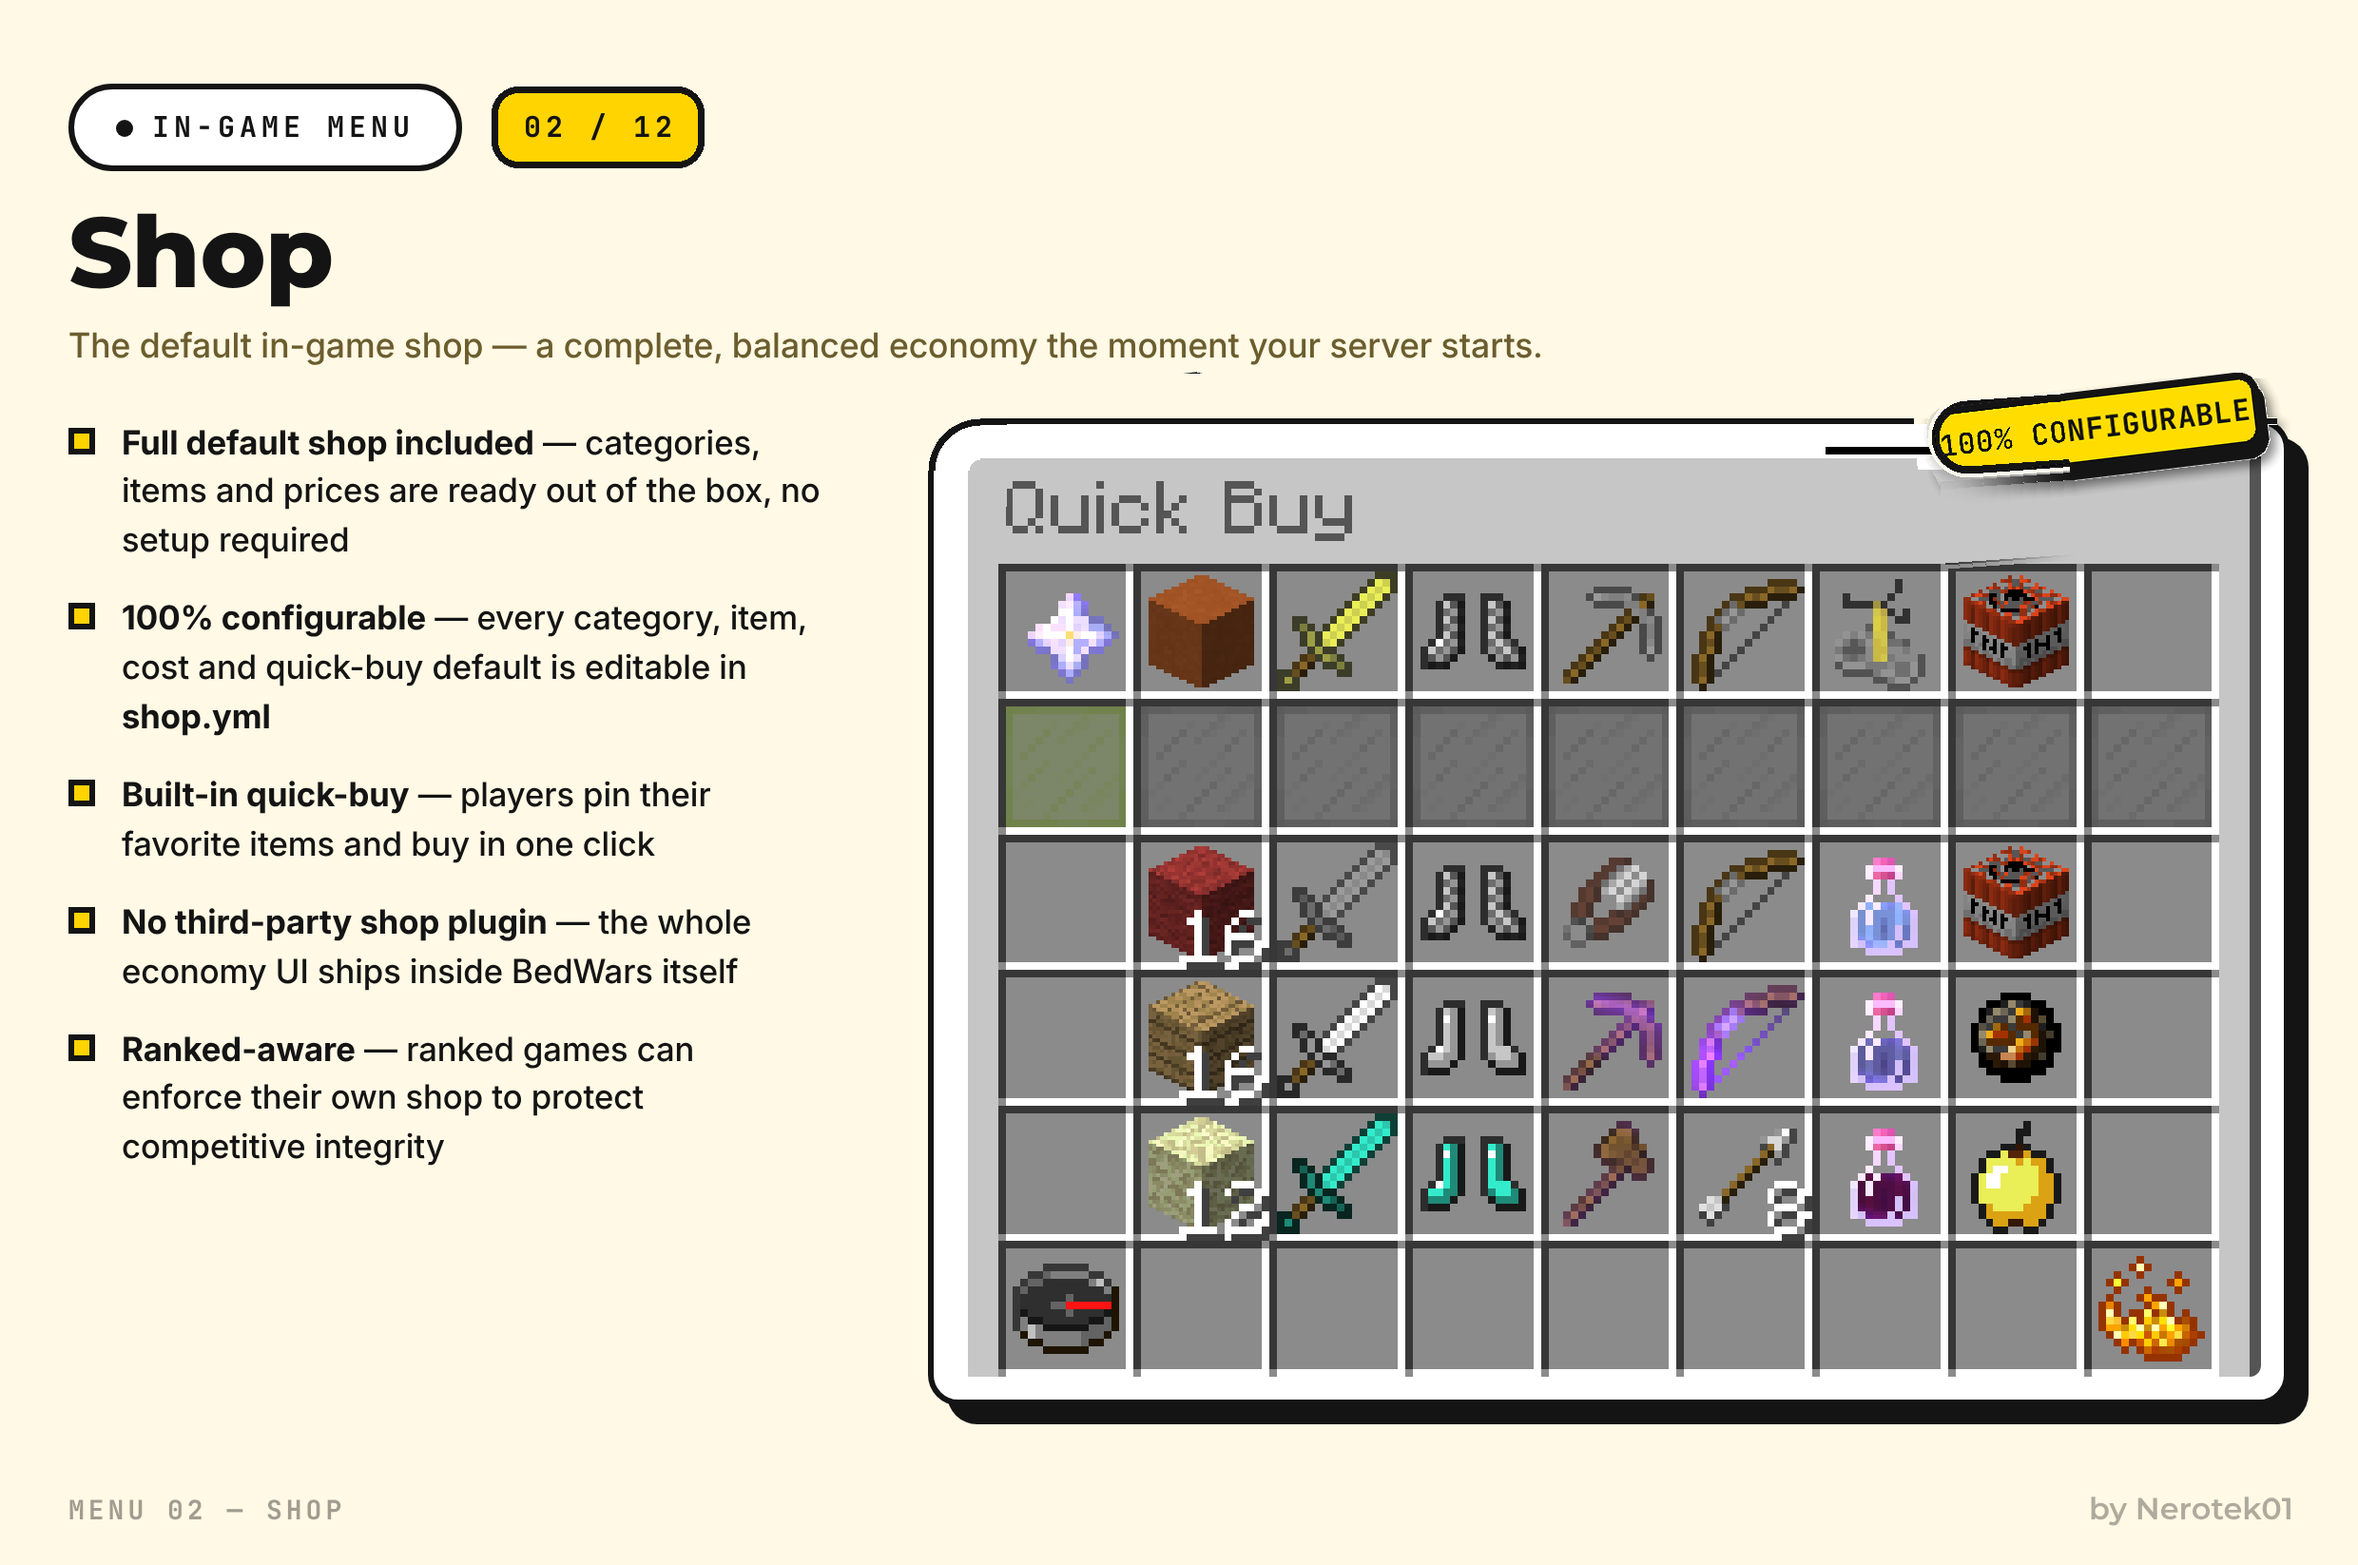
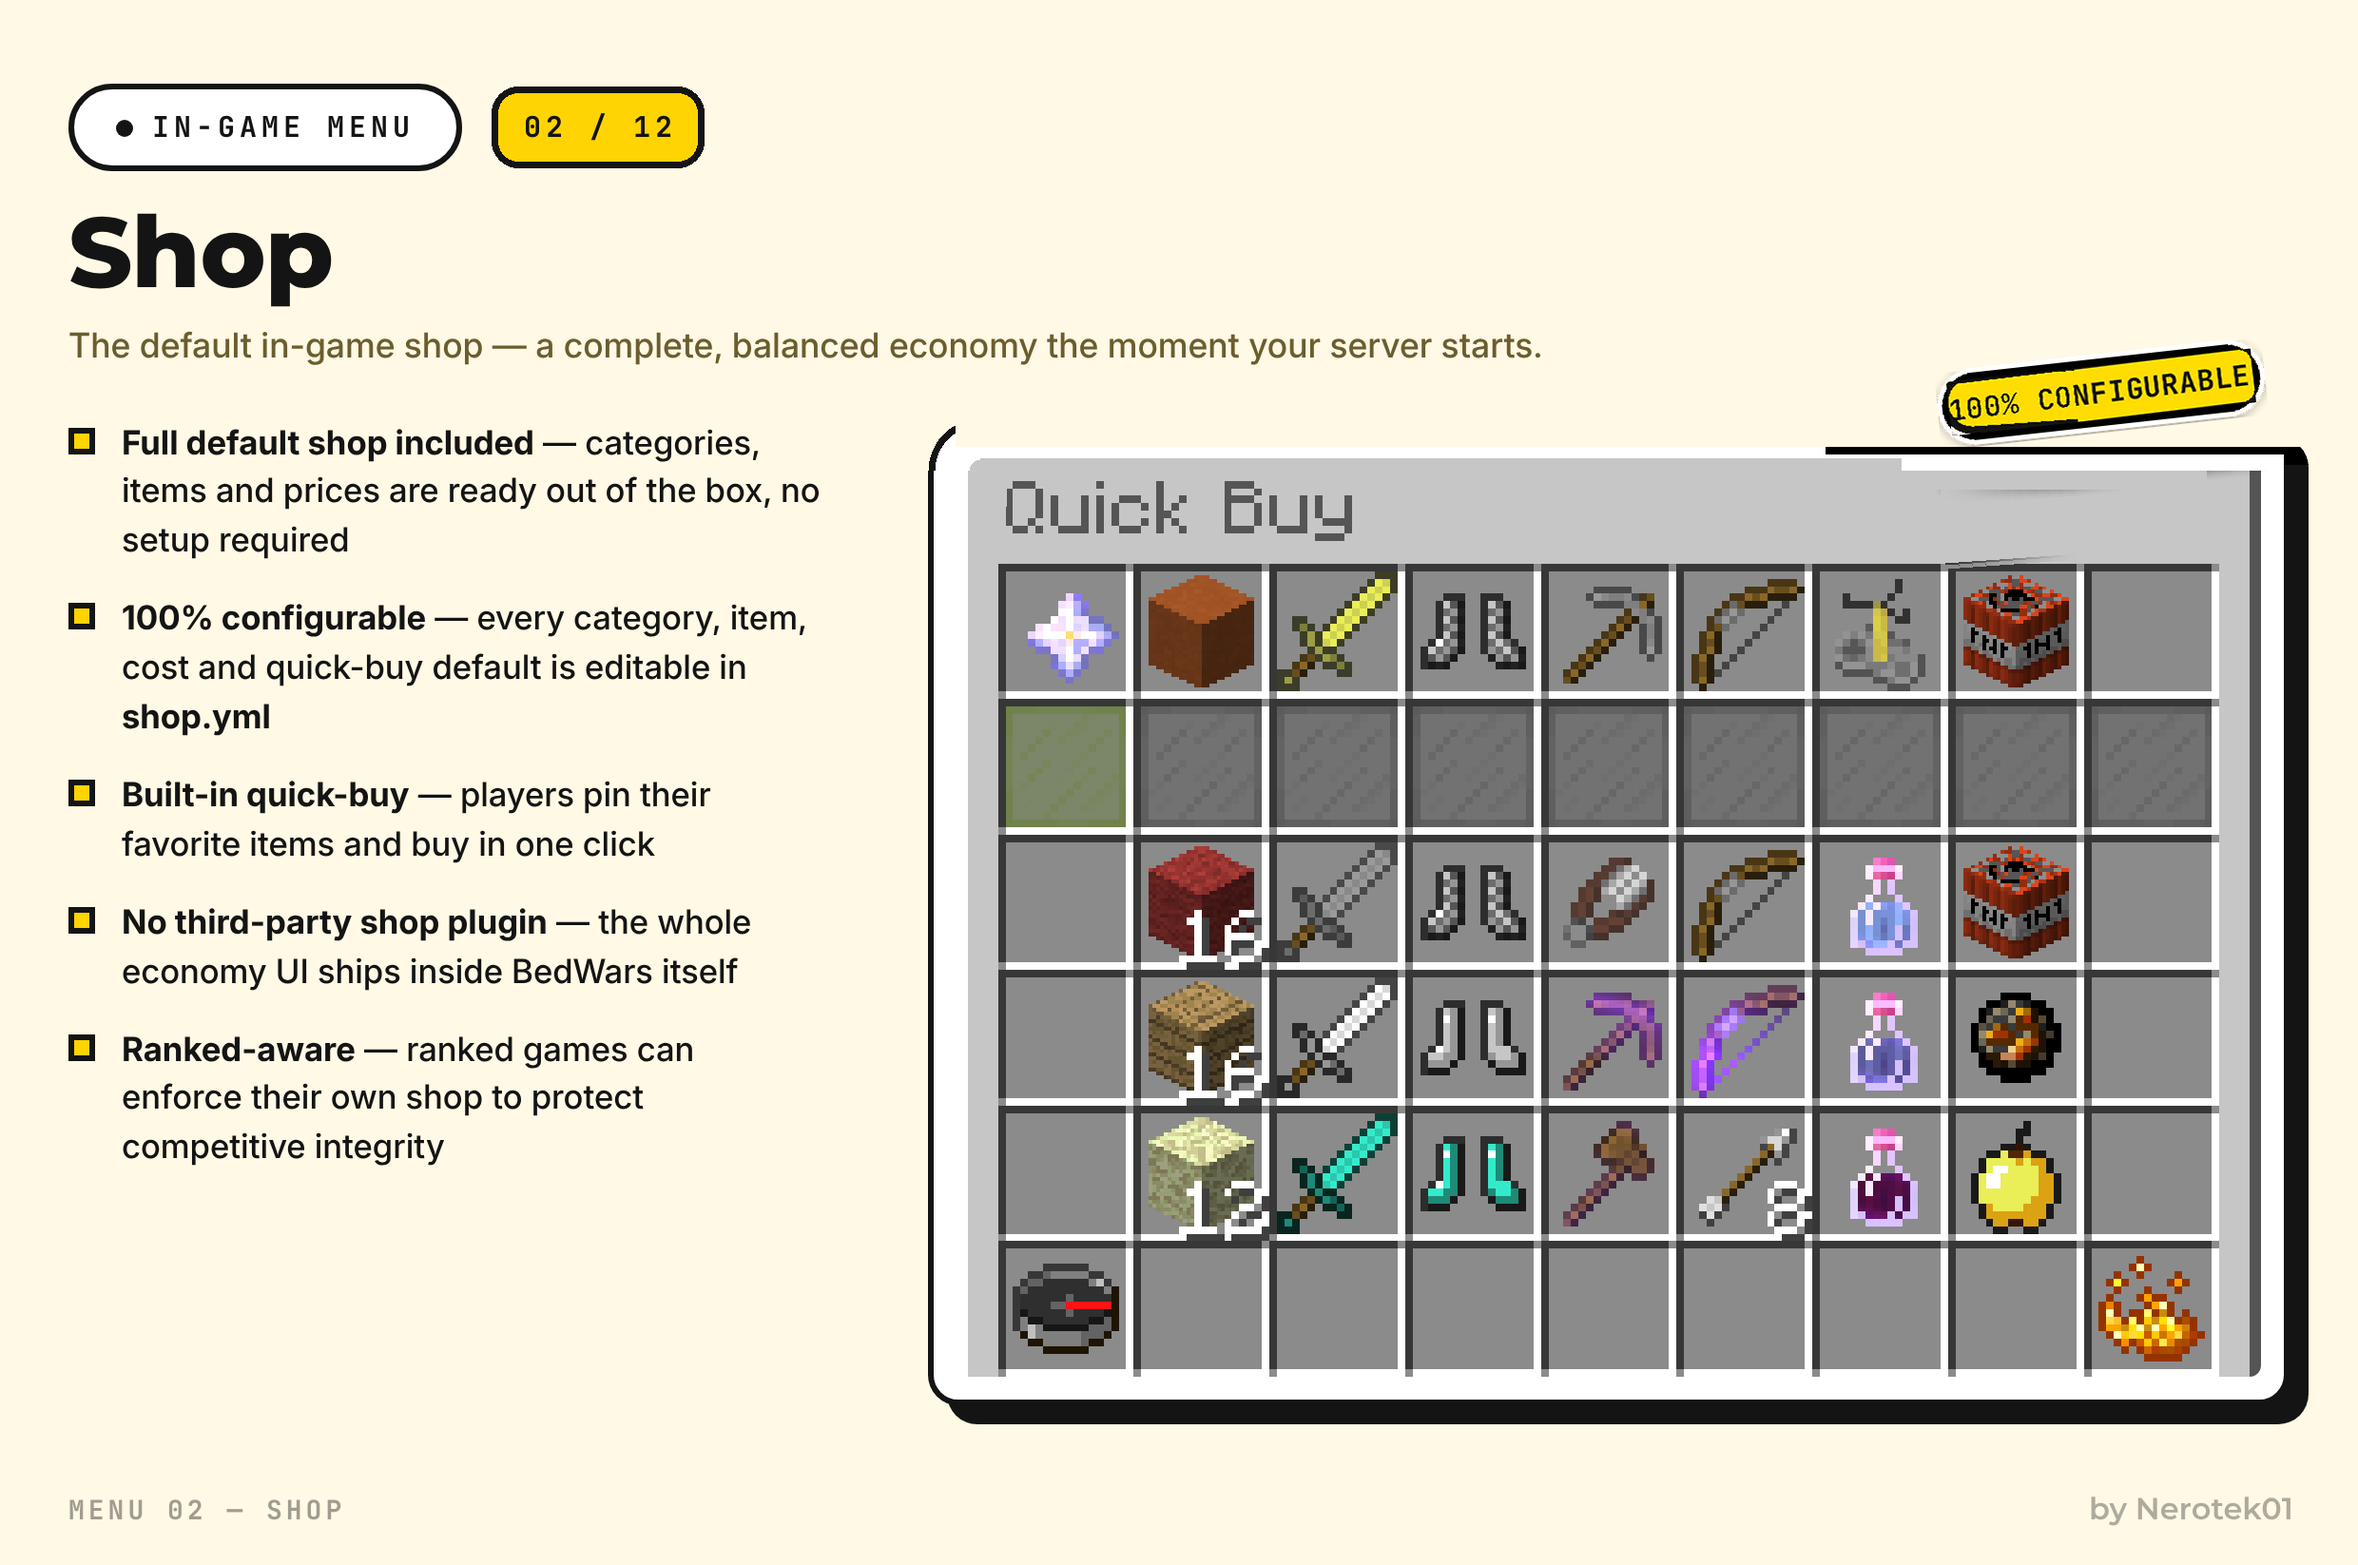
fix: clean up README asset defects across all menu cards
- remove leftover ghost line above the panel border + unstick the
  100% CONFIGURABLE sticker from the panel corner on all 13 menu
  cards (sticker now floats cleanly above the rebuilt corner arc)
- setup holograms card: remove the two '|' empty separator rows from
  the arena-setup scoreboard (rows closed up), move the scoreboard
  right so it no longer hugs the panel edge, and cut the empty red
  band below debug.hypeland.org in the DEVELOPER SETUP panel
- repair bottom-clipped text lines (Play GUI + Statistics + Practice
  subtitles, Play GUI last bullet) with matched typography
- README: document the 1-day beta test loader via developer DM when
  the demo server is offline

Changed region(s): [[0.4036, 0.2169, 0.9935, 0.3098]]

diff --git a/README.md b/README.md
@@ -60,6 +60,8 @@ IP: mc.hypeland.org
 
 The test server runs the latest stable build with every add-on enabled. You can experience ranked matchmaking, the full shop, generators, team upgrades, replays, cosmetics, quests and every other system exactly as your players would. **No registration, no whitelist — connect and play immediately.** The shop you play on the demo is the same default shop that ships inside the download, which is exactly the point: the plugin arrives already playable, and the demo simply proves it. If a feature you care about is not visible on the demo, ask about it in DMs and you will be shown where to test it.
 
+**Demo server offline?** If the test server happens to be down, just open a DM with the developer and request a test loader for the plugin. You will receive a **1-day test loader** that grants access to the **beta build of BedWars — not the release version** — so you can still evaluate the plugin directly on your own server before buying.
+
 ---
 
 ## Why BedWars?
